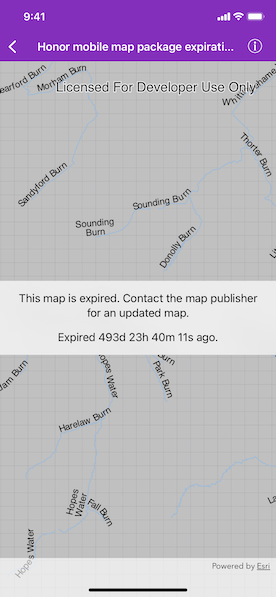
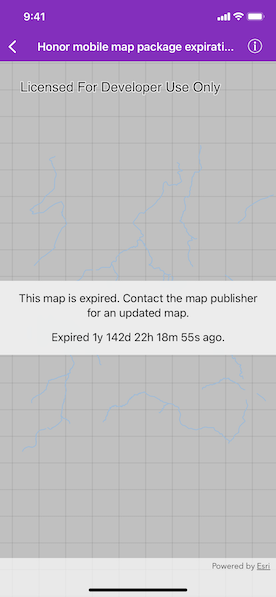
Update honor expiration date sample.

diff --git a/arcgis-ios-sdk-samples/Maps/Honor mobile map package expiration date/HonorMobileMapPackageExpirationDateViewController.swift b/arcgis-ios-sdk-samples/Maps/Honor mobile map package expiration date/HonorMobileMapPackageExpirationDateViewController.swift
@@ -83,7 +83,7 @@ class HonorMobileMapPackageExpirationDateViewController: UIViewController {
         guard let expirationDate = mobileMapPackage.expiration?.dateTime else {
             return
         }
-        let dateComponents = Calendar.current.dateComponents([.day, .hour, .minute, .second], from: expirationDate, to: Date())
+        let dateComponents = Calendar.current.dateComponents([.year, .day, .hour, .minute, .second], from: expirationDate, to: Date())
         let text: String
         if let string = DateComponentsFormatter.localizedString(from: dateComponents, unitsStyle: .abbreviated) {
             text = String(format: "Expired %@ ago.", string)
